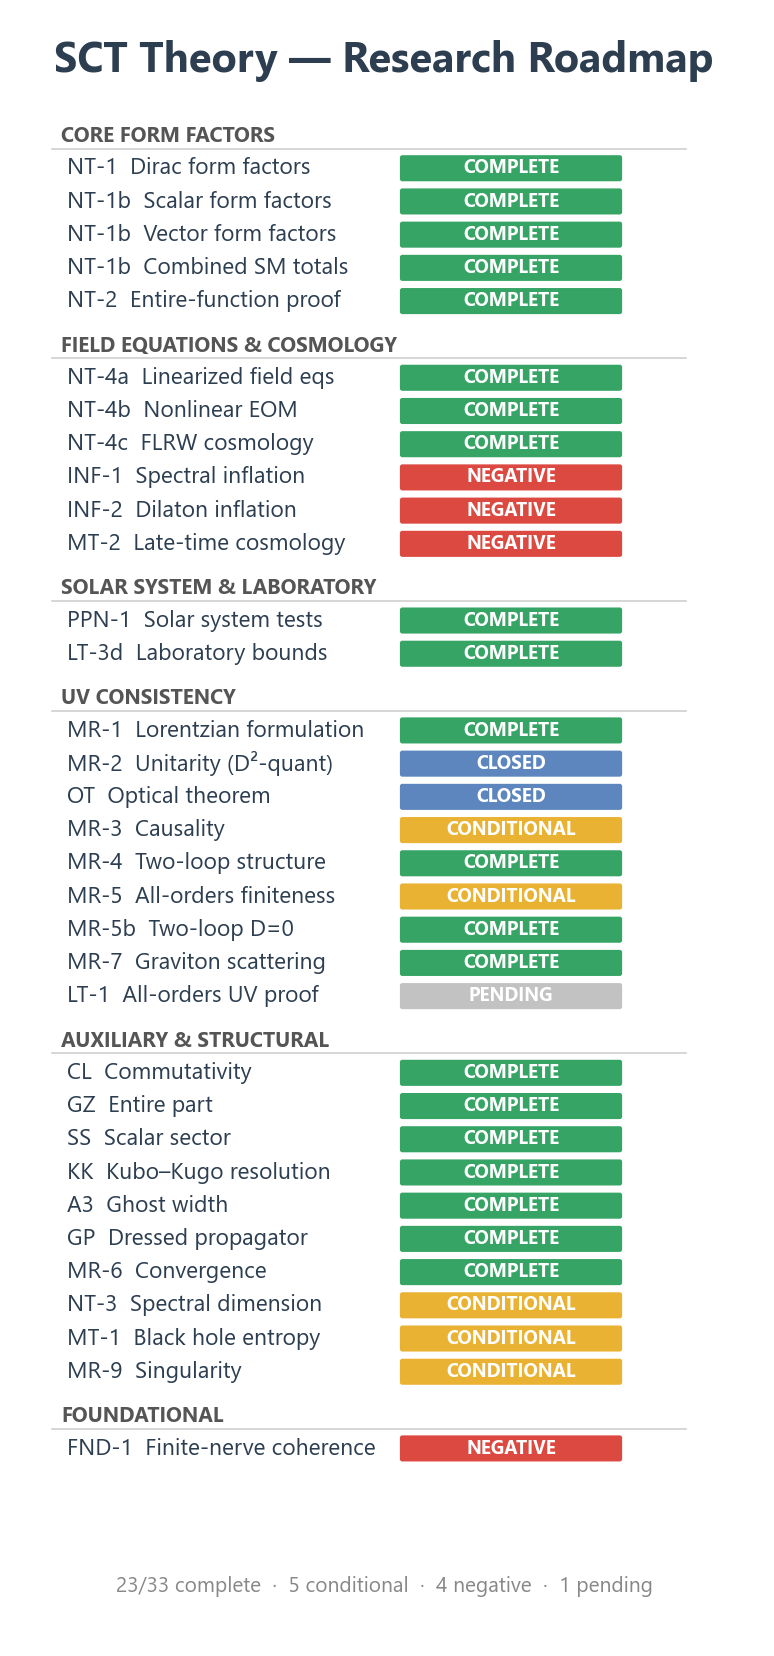
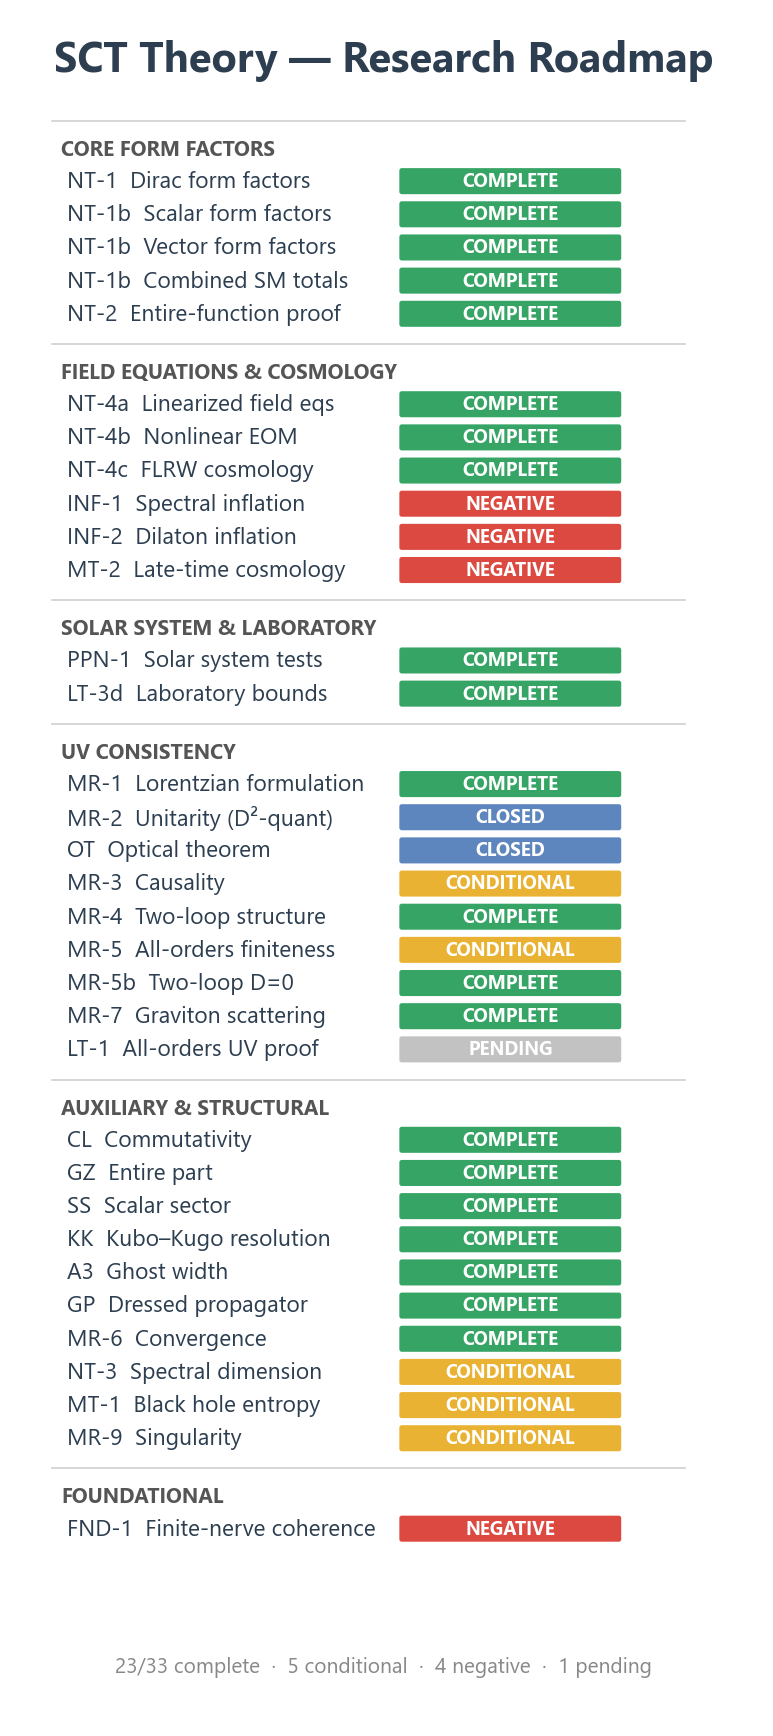
Fix roadmap chart: add vertical gap above group headers

diff --git a/analysis/scripts/roadmap_chart.py b/analysis/scripts/roadmap_chart.py
@@ -92,25 +92,26 @@ for g in GROUP_ORDER:
 
 # ── Layout constants ─────────────────────────────────────────
 ROW_H   = 0.55          # row height for tasks
-HDR_H   = 0.72          # row height for group headers
-PAD_BOT = 0.3           # padding below header text
+HDR_H   = 0.50          # header text area
+HDR_GAP = 0.45          # extra gap ABOVE each header (separates groups)
 BAR_W   = 0.60          # bar width (fraction of row)
 DOT_R   = 0.11          # status dot radius
 
 fig_w = 11
-total_h = sum(HDR_H if k == "header" else ROW_H for k, _ in rows) + 1.8
+total_h = sum((HDR_H + HDR_GAP) if k == "header" else ROW_H for k, _ in rows) + 1.8
 fig, ax = plt.subplots(figsize=(fig_w, total_h * 0.38 + 1.0))
 
 y = total_h  # start from top
 
 for kind, payload in rows:
     if kind == "header":
-        y -= HDR_H
-        # separator line
-        ax.plot([0, fig_w - 0.5], [y + 0.05, y + 0.05],
+        y -= HDR_GAP  # gap above header
+        # separator line at top of gap
+        ax.plot([0, fig_w - 0.5], [y + HDR_GAP * 0.5, y + HDR_GAP * 0.5],
                 color="#d0d0d0", linewidth=0.6, zorder=0)
-        # group title
-        ax.text(0.15, y + HDR_H * 0.35, GROUP_TITLE[payload],
+        y -= HDR_H    # header text area
+        # group title centered in its area
+        ax.text(0.15, y + HDR_H * 0.5, GROUP_TITLE[payload],
                 fontsize=7.5, fontweight="bold", color="#555555",
                 va="center", family="sans-serif")
     else:
